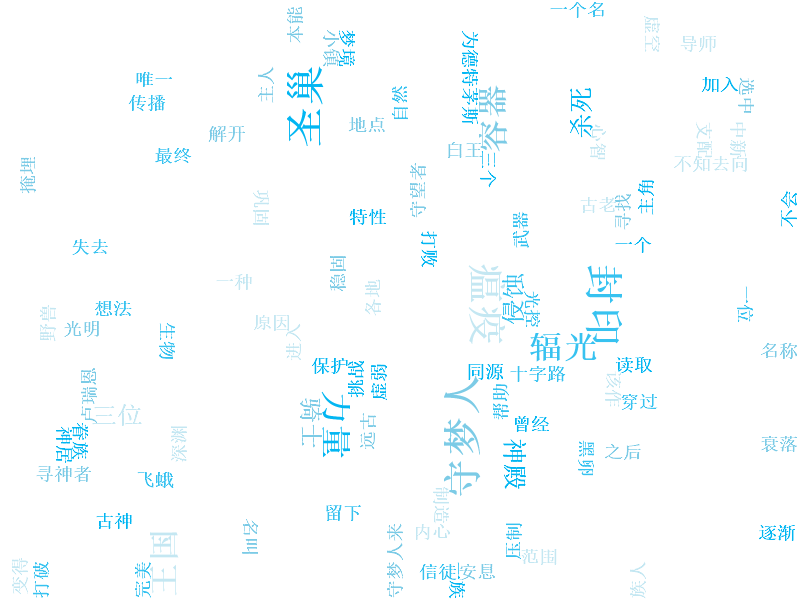
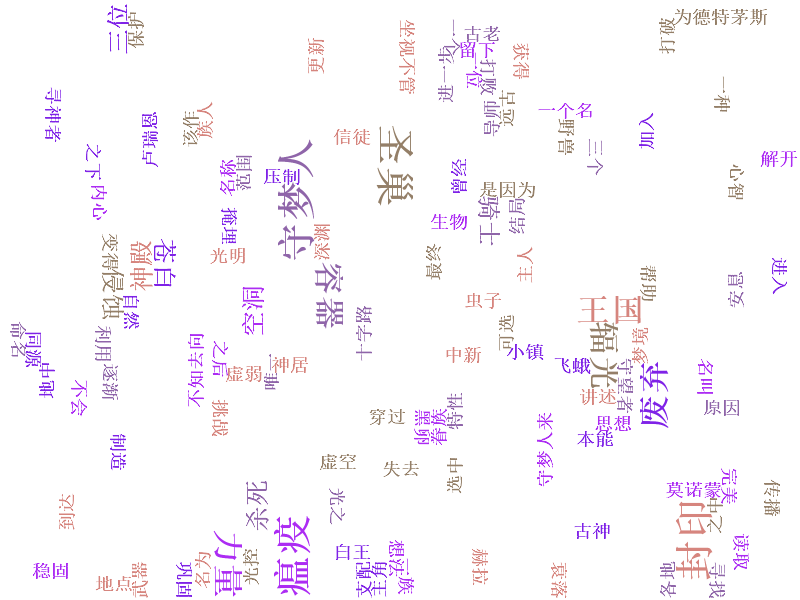
release branch 1.1.0

diff --git a/src/test/java/com/github/houbb/word/cloud/util/WordCloudHelperTest.java b/src/test/java/com/github/houbb/word/cloud/util/WordCloudHelperTest.java
@@ -1,6 +1,5 @@
 package com.github.houbb.word.cloud.util;
 
-import com.github.houbb.word.cloud.bs.WordCloudBs;
 import org.junit.Test;
 
 /**
@@ -11,8 +10,8 @@ public class WordCloudHelperTest {
 
     @Test
     public void helloTest() {
-        WordCloudHelper.wordCloud("该作讲述的是一个名为德特茅斯的衰落小镇下掩埋着一个古老的废弃王国，名叫圣巢。这个王国被瘟疫所侵蚀而废弃，废弃的原因则是因为名为辐光的光之古神，她可以通过思想来传播瘟疫，被瘟疫侵蚀的虫子都会被本能所支配，失去心智。\n" +
-                "这个王国的主人——苍白之王，自然不会坐视不管，他在圣巢范围之下的深渊，利用另一种远古力量“虚空”可以压制光明的特性，制造了容器一族。其中一位被选中的容器用来封印瘟疫，并被命名为空洞骑士。为了封印的稳固，白王寻找了三个守梦人来进一步巩固封印，三位守梦人的名称分别为守望者 - 卢瑞恩，导师 - 莫诺蒙，野兽 - 赫拉。但之后苍白之王不知去向，不完美的容器的力量的也变得逐渐虚弱，最终被辐光控制。主角就要穿过圣巢的各地，在安息之地中，我们受到曾经辐光的信徒和眷族——飞蛾族唯一留下的族人的帮助，获得了和辐光力量同源的梦之武器——梦之钉。梦之钉可以读取生物内心的想法，并可以打破守梦人的保护，进入到其梦境之中杀死守梦人。杀死了三位守梦人并解开封印后，可选的结局有到达十字路里的黑卵神殿打败空洞骑士或去到在“寻神者”更新中新加入的地点“神居”并挑战圣巢万神殿。 [2]");
+        WordCloudHelper.wordCloud("该作讲述的是一个名为德特茅斯的衰落小镇下掩埋着一个古老的废弃王国，名叫圣巢。这个王国被瘟疫所侵蚀而废弃，废弃的原因则是因为名为辐光的光之古神，她可以通过思想来传播瘟疫，被瘟疫侵蚀的虫子都会被本能所支配，失去心智。" +
+                "这个王国的主人——苍白之王，自然不会坐视不管，他在圣巢范围之下的深渊，利用另一种远古力量“虚空”可以压制光明的特性，制造了容器一族。其中一位被选中的容器用来封印瘟疫，并被命名为空洞骑士。为了封印的稳固，白王寻找了三个守梦人来进一步巩固封印，三位守梦人的名称分别为守望者 - 卢瑞恩，导师 - 莫诺蒙，野兽 - 赫拉。但之后苍白之王不知去向，不完美的容器的力量的也变得逐渐虚弱，最终被辐光控制。主角就要穿过圣巢的各地，在安息之地中，我们受到曾经辐光的信徒和眷族——飞蛾族唯一留下的族人的帮助，获得了和辐光力量同源的梦之武器——梦之钉。梦之钉可以读取生物内心的想法，并可以打破守梦人的保护，进入到其梦境之中杀死守梦人。杀死了三位守梦人并解开封印后，可选的结局有到达十字路里的黑卵神殿打败空洞骑士或去到在“寻神者”更新中新加入的地点“神居”并挑战圣巢万神殿。");
     }
 
 }

diff --git a/src/main/java/com/github/houbb/word/cloud/bs/WordCloudBs.java b/src/main/java/com/github/houbb/word/cloud/bs/WordCloudBs.java
@@ -3,8 +3,6 @@ package com.github.houbb.word.cloud.bs;
 import com.github.houbb.word.cloud.support.freq.DefaultWordFrequency;
 import com.github.houbb.word.cloud.support.freq.IWordFrequency;
 import com.github.houbb.word.cloud.support.freq.WordFrequencyContext;
-import com.github.houbb.word.cloud.support.stopword.DefaultStopWord;
-import com.github.houbb.word.cloud.support.stopword.IStopWord;
 import com.kennycason.kumo.CollisionMode;
 import com.kennycason.kumo.WordCloud;
 import com.kennycason.kumo.WordFrequency;
@@ -17,6 +15,8 @@ import com.kennycason.kumo.palette.ColorPalette;
 
 import java.awt.*;
 import java.util.List;
+import java.util.Random;
+import java.util.concurrent.ThreadLocalRandom;
 
 /**
  * @author binbin.hou
@@ -41,12 +41,6 @@ public class WordCloudBs {
      * @since 1.0.0
      */
     private IWordFrequency wordFrequency = new DefaultWordFrequency();
-
-    /**
-     * 停顿词实现
-     * @since 1.0.0
-     */
-    private IStopWord stopWord = new DefaultStopWord();
 
     /**
      * 文本内容
@@ -98,8 +92,7 @@ public class WordCloudBs {
 
     private KumoFont kumoFont = new KumoFont("Default", FontWeight.BOLD);
 
-    private ColorPalette colorPalette = new ColorPalette(new Color(177906), new Color(3654384), new Color(8178662),
-            new Color(12904434), new Color(16777215));
+    private ColorPalette colorPalette = buildRandomColorPalette(5);
 
     public WordCloudBs outPath(String outPath) {
         this.outPath = outPath;
@@ -108,11 +101,6 @@ public class WordCloudBs {
 
     public WordCloudBs wordFrequency(IWordFrequency wordFrequency) {
         this.wordFrequency = wordFrequency;
-        return this;
-    }
-
-    public WordCloudBs stopWord(IStopWord stopWord) {
-        this.stopWord = stopWord;
         return this;
     }
 
@@ -178,7 +166,7 @@ public class WordCloudBs {
     public void wordCloud() {
         //1. 获取词频
         WordFrequencyContext frequencyContext = new WordFrequencyContext();
-        frequencyContext.text(text).limit(limit).stopWord(stopWord);
+        frequencyContext.text(text).limit(limit);
         final List<WordFrequency> wordFrequencies = this.wordFrequency.freq(frequencyContext);
 
         final Dimension dimension = new Dimension(width, height);
@@ -195,6 +183,22 @@ public class WordCloudBs {
 
         wordCloud.build(wordFrequencies);
         wordCloud.writeToFile(this.outPath);
+    }
+
+    /**
+     * 构建随机的颜色
+     * @param n 个数
+     * @return 结果
+     * @since 1.1.0
+     */
+    private static ColorPalette buildRandomColorPalette(final int n) {
+        final Random random = ThreadLocalRandom.current();
+
+        final Color[] colors = new Color[n];
+        for (int i = 0; i < colors.length; i++) {
+            colors[i] = new Color(random.nextInt(230) + 25, random.nextInt(230) + 25, random.nextInt(230) + 25);
+        }
+        return new ColorPalette(colors);
     }
 
 }

diff --git a/src/main/java/com/github/houbb/word/cloud/support/freq/DefaultWordFrequency.java b/src/main/java/com/github/houbb/word/cloud/support/freq/DefaultWordFrequency.java
@@ -1,12 +1,13 @@
 package com.github.houbb.word.cloud.support.freq;
 
 import com.github.houbb.heaven.annotation.CommonEager;
-import com.github.houbb.heaven.util.lang.StringUtil;
-import com.github.houbb.segment.support.segment.result.impl.SegmentResultHandlers;
-import com.github.houbb.segment.util.SegmentHelper;
+import com.github.houbb.heaven.support.handler.IHandler;
+import com.github.houbb.heaven.util.util.CollectionUtil;
+import com.github.houbb.word.freq.core.WordFreqResult;
+import com.github.houbb.word.freq.util.WordFreqHelper;
 import com.kennycason.kumo.WordFrequency;
 
-import java.util.*;
+import java.util.List;
 
 /**
  * @author binbin.hou
@@ -17,46 +18,15 @@ public class DefaultWordFrequency implements IWordFrequency {
 
     @Override
     public List<WordFrequency> freq(WordFrequencyContext context) {
-        String text = context.text();
-        int limit = context.limit();
+        List<WordFreqResult> wordFreqResults = WordFreqHelper.wordFreq(context.text(),
+                context.limit());
 
-        if(StringUtil.isEmptyTrim(text)
-            || limit <= 0) {
-            return Collections.emptyList();
-        }
-
-        //1. 分词
-        Map<String, Integer> wordCountMap = SegmentHelper.segment(text, SegmentResultHandlers.wordCount());
-
-        //2. 筛选停顿词
-        int actualLimit = wordCountMap.size();
-        if(actualLimit > limit) {
-            actualLimit = limit;
-        }
-        PriorityQueue<WordFrequency> priorityQueues = new PriorityQueue<>(actualLimit, new Comparator<WordFrequency>() {
+        return CollectionUtil.toList(wordFreqResults, new IHandler<WordFreqResult, WordFrequency>() {
             @Override
-            public int compare(WordFrequency o1, WordFrequency o2) {
-                return o2.getFrequency() - o1.getFrequency();
+            public WordFrequency handle(WordFreqResult wordFreqResult) {
+                return new WordFrequency(wordFreqResult.word(), wordFreqResult.freq());
             }
         });
-
-        for(Map.Entry<String,Integer> entry : wordCountMap.entrySet()) {
-            String key = entry.getKey();
-            if(!context.stopWord().contains(key) && key.length() > 1) {
-                WordFrequency frequency = new WordFrequency(key, entry.getValue());
-                priorityQueues.add(frequency);
-            }
-        }
-
-        //4. 过滤只保留结果
-        List<WordFrequency> results = new ArrayList<>(actualLimit);
-        int count = 0;
-        while (count < actualLimit && !priorityQueues.isEmpty()) {
-            results.add(priorityQueues.poll());
-            count++;
-        }
-
-        return results;
     }
 
 }

diff --git a/src/main/java/com/github/houbb/word/cloud/support/freq/WordFrequencyContext.java b/src/main/java/com/github/houbb/word/cloud/support/freq/WordFrequencyContext.java
@@ -1,7 +1,5 @@
 package com.github.houbb.word.cloud.support.freq;
 
-import com.github.houbb.word.cloud.support.stopword.IStopWord;
-
 /**
  * @author binbin.hou
  * @since 1.0.0
@@ -11,8 +9,6 @@ public class WordFrequencyContext {
     private String text;
 
     private int limit;
-
-    private IStopWord stopWord;
 
     public String text() {
         return text;
@@ -32,21 +28,11 @@ public class WordFrequencyContext {
         return this;
     }
 
-    public IStopWord stopWord() {
-        return stopWord;
-    }
-
-    public WordFrequencyContext stopWord(IStopWord stopWord) {
-        this.stopWord = stopWord;
-        return this;
-    }
-
     @Override
     public String toString() {
         return "WordFrequencyContext{" +
                 "text='" + text + '\'' +
                 ", limit=" + limit +
-                ", stopWord=" + stopWord +
                 '}';
     }
 

diff --git a/src/main/java/com/github/houbb/word/cloud/util/WordCloudHelper.java b/src/main/java/com/github/houbb/word/cloud/util/WordCloudHelper.java
@@ -6,7 +6,9 @@ import com.github.houbb.word.cloud.bs.WordCloudBs;
  * @author binbin.hou
  * @since 1.0.0
  */
-public class WordCloudHelper {
+public final class WordCloudHelper {
+
+    private WordCloudHelper(){}
 
     /**
      * 云图

diff --git a/CHANGELOG.md b/CHANGELOG.md
@@ -9,7 +9,7 @@
 | O | 优化 |
 | F | 修复BUG |
 
-# release_0.0.1
+# release_1.0.0
 
 | 序号 | 变更类型 | 说明 | 时间 | 备注 |
 |:---|:---|:---|:---|:--|
